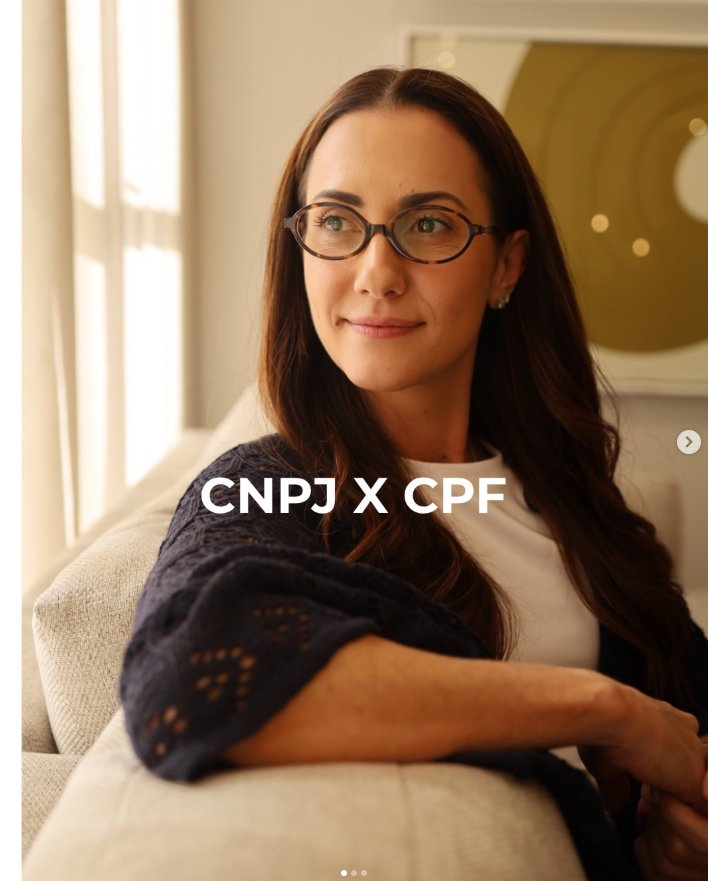
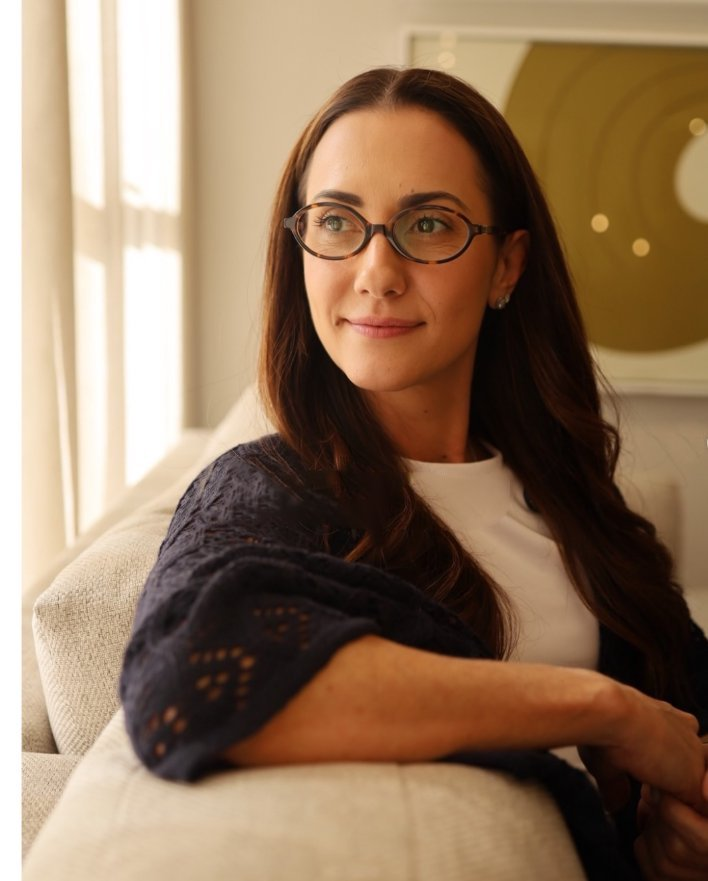
fix(previa): trocar foto do casal por varanda gourmet e atualizar foto de perfil sem texto

Changed region(s): [[0.2486, 0.521, 0.7147, 0.6129], [0.9322, 0.4904, 0.9944, 0.521], [0.4661, 0.9807, 0.5282, 1.0]]

diff --git a/previas/juliana-donzelli/index.html b/previas/juliana-donzelli/index.html
@@ -1055,7 +1055,7 @@ Usage: add custom attribute ellipses="1", "2", "3", or "4" */
 </div><div class="arrow y-100 w-embed"><svg width="100%" height="100%" viewBox="0 0 17 11" fill="none" xmlns="http://www.w3.org/2000/svg">
 <path fill-rule="evenodd" clip-rule="evenodd" d="M11.5447 0L10.7619 0.766191L14.9117 4.95H0V6.05H14.9117L10.7733 10.2223L11.5447 11C13.5419 8.98645 15.0885 7.4272 17 5.5L11.5447 0Z" fill="currentColor"/>
 </svg>
-</div></div></a></div></div></div><div id="w-node-_33a825c3-81c8-3b10-0d5d-609fba4ec7d0-3ac774a5" class="descritiption-logo-large" style="display:flex; justify-content:center; align-items:center; width:100%; padding:2.5rem 0;"><span style="font-family:'Cormorant Garamond', Georgia, serif; font-size:clamp(40px, 9.5vw, 135px); font-weight:700; letter-spacing:0.12em; text-transform:uppercase; color:#ffffff; line-height:1; text-align:center;">JULIANA DONZELLI</span></div></div></div></div><div data-wf--spacer--variant="xsmall" class="section_spacer w-variant-e0dff5ce-53d0-c405-e99c-6d1b9afe16a3"></div></div></section><section data-navbar-dark="true" class="section-beidge is-relative"><div class="featured-heading" style="top:130px !important; inset:130px 0% auto !important;"><div class="container"><div class="featured-label-wrap"><div class="featured-label"><h2 class="text-size-regular" id="projects"><span id="featuredHeading">Obras Selecionadas</span></h2></div></div></div></div><div class="featured-wrapper"><div data-wf--spacer--variant="bse" class="section_spacer"></div><div class="featured-spacer-tab"><div data-wf--spacer--variant="bse" class="section_spacer"></div></div><div class="padding-global higher-z"><div class="container"><div class="featured-wrap"><div class="featured-collection-wrapper w-dyn-list"><div role="list" class="featured-list w-dyn-items"><div role="listitem" class="featured-items w-dyn-item"><div class="featured-image-wrap"><div class="featured-image"><img src="assets/4009372228869753540_2244675868_1.jpg" loading="lazy" alt="" class="image-cover"/></div></div><div class="featured-grid"><div class="site-grid"><div class="featured-text"><div featured-numbered="" class="text-size-regular">01</div></div><div id="w-node-_1edc6db0-03d4-9ab7-a2d5-7a6b25c4bbf0-3ac774a5" class="featured-text"><div class="text-size-regular"><span id="proj1Title">Residência Alphaville I</span></div></div><div id="w-node-a6d03eed-a6cc-8a16-7fe4-6abfefa27164-3ac774a5" class="featured-text"><div class="text-size-regular opac-40 w-dyn-bind-empty"></div><div class="text-size-regular"><span id="proj1Desc">Alphaville I, SJC · 580 m² · Construção Autoral</span></div></div></div><div class="featured-divider"></div><div class="featured-divider-active"></div><a aria-label="Saiba Mais sobre este projeto" href="./residencia-alphaville.html" class="featured-link w-inline-block"></a></div></div><div role="listitem" class="featured-items w-dyn-item"><div class="featured-image-wrap"><div class="featured-image"><img src="assets/4009973513394161792_2244675868_1.jpg" loading="lazy" alt="" class="image-cover"/></div></div><div class="featured-grid"><div class="site-grid"><div class="featured-text"><div featured-numbered="" class="text-size-regular">01</div></div><div id="w-node-_1edc6db0-03d4-9ab7-a2d5-7a6b25c4bbf0-3ac774a5" class="featured-text"><div class="text-size-regular"><span id="proj2Title">Living Integrado Pé-Direito Duplo</span></div></div><div id="w-node-a6d03eed-a6cc-8a16-7fe4-6abfefa27164-3ac774a5" class="featured-text"><div class="text-size-regular opac-40 w-dyn-bind-empty"></div><div class="text-size-regular"><span id="proj2Desc">Colinas, SJC · Iluminação Cênica 2700K</span></div></div></div><div class="featured-divider"></div><div class="featured-divider-active"></div><a aria-label="Saiba Mais sobre este projeto" href="https://wa.me/5512991931919?text=Ol%C3%A1%2C+D%C3%A9bora%21+Gostaria+de+conhecer+mais+detalhes+sobre+os+projetos+residenciais." target="_blank" class="featured-link w-inline-block"></a></div></div><div role="listitem" class="featured-items w-dyn-item"><div class="featured-image-wrap"><div class="featured-image"><img src="assets/4008136506011091686_2244675868_2.jpg" loading="lazy" alt="" class="image-cover"/></div></div><div class="featured-grid"><div class="site-grid"><div class="featured-text"><div featured-numbered="" class="text-size-regular">01</div></div><div id="w-node-_1edc6db0-03d4-9ab7-a2d5-7a6b25c4bbf0-3ac774a5" class="featured-text"><div class="text-size-regular"><span id="proj3Title">Espaço Gourmet &amp; Lazer Integrado</span></div></div><div id="w-node-a6d03eed-a6cc-8a16-7fe4-6abfefa27164-3ac774a5" class="featured-text"><div class="text-size-regular opac-40 w-dyn-bind-empty"></div><div class="text-size-regular"><span id="proj3Desc">Urbanova, SJC · Mármore Michelangelo &amp; Nogueira</span></div></div></div><div class="featured-divider"></div><div class="featured-divider-active"></div><a aria-label="Saiba Mais sobre este projeto" href="https://wa.me/5512991931919?text=Ol%C3%A1%2C+D%C3%A9bora%21+Gostaria+de+conhecer+mais+detalhes+sobre+os+projetos+residenciais." target="_blank" class="featured-link w-inline-block"></a></div></div><div role="listitem" class="featured-items w-dyn-item"><div class="featured-image-wrap"><div class="featured-image"><img src="assets/4008136506011091686_2244675868_6.jpg" loading="lazy" alt="" class="image-cover"/></div></div><div class="featured-grid"><div class="site-grid"><div class="featured-text"><div featured-numbered="" class="text-size-regular">01</div></div><div id="w-node-_1edc6db0-03d4-9ab7-a2d5-7a6b25c4bbf0-3ac774a5" class="featured-text"><div class="text-size-regular"><span id="proj4Title">Suíte Master Sensorial</span></div></div><div id="w-node-a6d03eed-a6cc-8a16-7fe4-6abfefa27164-3ac774a5" class="featured-text"><div class="text-size-regular opac-40 w-dyn-bind-empty"></div><div class="text-size-regular"><span id="proj4Desc">Jardim Golfe, SJC · Marcenaria Autoral Sob Medida</span></div></div></div><div class="featured-divider"></div><div class="featured-divider-active"></div><a aria-label="Saiba Mais sobre este projeto" href="https://wa.me/5512991931919?text=Ol%C3%A1%2C+D%C3%A9bora%21+Gostaria+de+conhecer+mais+detalhes+sobre+os+projetos+residenciais." target="_blank" class="featured-link w-inline-block"></a></div></div><div role="listitem" class="featured-items w-dyn-item"><div class="featured-image-wrap"><div class="featured-image"><img src="assets/3948634773405647722_2244675868_7.jpg" loading="lazy" alt="" class="image-cover"/></div></div><div class="featured-grid"><div class="site-grid"><div class="featured-text"><div featured-numbered="" class="text-size-regular">01</div></div><div id="w-node-_1edc6db0-03d4-9ab7-a2d5-7a6b25c4bbf0-3ac774a5" class="featured-text"><div class="text-size-regular"><span id="proj5Title">Varanda Gourmet &amp; Paisagismo</span></div></div><div id="w-node-a6d03eed-a6cc-8a16-7fe4-6abfefa27164-3ac774a5" class="featured-text"><div class="text-size-regular opac-40 w-dyn-bind-empty"></div><div class="text-size-regular"><span id="proj5Desc">Alphaville II, SJC · Integração Total In/Out</span></div></div></div><div class="featured-divider"></div><div class="featured-divider-active"></div><a aria-label="Saiba Mais sobre este projeto" href="https://wa.me/5512991931919?text=Ol%C3%A1%2C+D%C3%A9bora%21+Gostaria+de+conhecer+mais+detalhes+sobre+os+projetos+residenciais." target="_blank" class="featured-link w-inline-block"></a></div></div><div role="listitem" class="featured-items w-dyn-item"><div class="featured-image-wrap"><div class="featured-image"><img src="assets/4009973513394161792_2244675868_6.jpg" loading="lazy" alt="" class="image-cover"/></div></div><div class="featured-grid"><div class="site-grid"><div class="featured-text"><div featured-numbered="" class="text-size-regular">01</div></div><div id="w-node-_1edc6db0-03d4-9ab7-a2d5-7a6b25c4bbf0-3ac774a5" class="featured-text"><div class="text-size-regular"><span id="proj6Title">Fachada Noturna &amp; Luminotécnica</span></div></div><div id="w-node-a6d03eed-a6cc-8a16-7fe4-6abfefa27164-3ac774a5" class="featured-text"><div class="text-size-regular opac-40 w-dyn-bind-empty"></div><div class="text-size-regular"><span id="proj6Desc">Residencial Jaguary, SJC · Arquitetura Contemporânea</span></div></div></div><div class="featured-divider"></div><div class="featured-divider-active"></div><a aria-label="Saiba Mais sobre este projeto" href="https://wa.me/5512991931919?text=Ol%C3%A1%2C+D%C3%A9bora%21+Gostaria+de+conhecer+mais+detalhes+sobre+os+projetos+residenciais." target="_blank" class="featured-link w-inline-block"></a></div></div></div></div></div></div></div><div class="featured-spacer-tab"><div data-wf--spacer--variant="bse" class="section_spacer"></div></div><div data-wf--spacer--variant="big" class="section_spacer w-variant-fd5b8090-3e41-fa78-ec10-87d9fbe73384"></div></div></section><section data-navbar-dark="true" id="process" class="section_approach"><div class="approach-wrapper"><div class="padding-global higher-z"><div class="container"><div class="site-grid">
+</div></div></a></div></div></div><div id="w-node-_33a825c3-81c8-3b10-0d5d-609fba4ec7d0-3ac774a5" class="descritiption-logo-large" style="display:flex; justify-content:center; align-items:center; width:100%; padding:2.5rem 0;"><span style="font-family:'Cormorant Garamond', Georgia, serif; font-size:clamp(40px, 9.5vw, 135px); font-weight:700; letter-spacing:0.12em; text-transform:uppercase; color:#ffffff; line-height:1; text-align:center;">JULIANA DONZELLI</span></div></div></div></div><div data-wf--spacer--variant="xsmall" class="section_spacer w-variant-e0dff5ce-53d0-c405-e99c-6d1b9afe16a3"></div></div></section><section data-navbar-dark="true" class="section-beidge is-relative"><div class="featured-heading" style="top:130px !important; inset:130px 0% auto !important;"><div class="container"><div class="featured-label-wrap"><div class="featured-label"><h2 class="text-size-regular" id="projects"><span id="featuredHeading">Obras Selecionadas</span></h2></div></div></div></div><div class="featured-wrapper"><div data-wf--spacer--variant="bse" class="section_spacer"></div><div class="featured-spacer-tab"><div data-wf--spacer--variant="bse" class="section_spacer"></div></div><div class="padding-global higher-z"><div class="container"><div class="featured-wrap"><div class="featured-collection-wrapper w-dyn-list"><div role="list" class="featured-list w-dyn-items"><div role="listitem" class="featured-items w-dyn-item"><div class="featured-image-wrap"><div class="featured-image"><img src="assets/4009372228869753540_2244675868_1.jpg" loading="lazy" alt="" class="image-cover"/></div></div><div class="featured-grid"><div class="site-grid"><div class="featured-text"><div featured-numbered="" class="text-size-regular">01</div></div><div id="w-node-_1edc6db0-03d4-9ab7-a2d5-7a6b25c4bbf0-3ac774a5" class="featured-text"><div class="text-size-regular"><span id="proj1Title">Residência Alphaville I</span></div></div><div id="w-node-a6d03eed-a6cc-8a16-7fe4-6abfefa27164-3ac774a5" class="featured-text"><div class="text-size-regular opac-40 w-dyn-bind-empty"></div><div class="text-size-regular"><span id="proj1Desc">Alphaville I, SJC · 580 m² · Construção Autoral</span></div></div></div><div class="featured-divider"></div><div class="featured-divider-active"></div><a aria-label="Saiba Mais sobre este projeto" href="./residencia-alphaville.html" class="featured-link w-inline-block"></a></div></div><div role="listitem" class="featured-items w-dyn-item"><div class="featured-image-wrap"><div class="featured-image"><img src="assets/4009973513394161792_2244675868_1.jpg" loading="lazy" alt="" class="image-cover"/></div></div><div class="featured-grid"><div class="site-grid"><div class="featured-text"><div featured-numbered="" class="text-size-regular">01</div></div><div id="w-node-_1edc6db0-03d4-9ab7-a2d5-7a6b25c4bbf0-3ac774a5" class="featured-text"><div class="text-size-regular"><span id="proj2Title">Living Integrado Pé-Direito Duplo</span></div></div><div id="w-node-a6d03eed-a6cc-8a16-7fe4-6abfefa27164-3ac774a5" class="featured-text"><div class="text-size-regular opac-40 w-dyn-bind-empty"></div><div class="text-size-regular"><span id="proj2Desc">Colinas, SJC · Iluminação Cênica 2700K</span></div></div></div><div class="featured-divider"></div><div class="featured-divider-active"></div><a aria-label="Saiba Mais sobre este projeto" href="https://wa.me/5512991931919?text=Ol%C3%A1%2C+Juliana%21+Gostaria+de+conhecer+mais+detalhes+sobre+os+projetos+residenciais." target="_blank" class="featured-link w-inline-block"></a></div></div><div role="listitem" class="featured-items w-dyn-item"><div class="featured-image-wrap"><div class="featured-image"><img src="assets/4008136506011091686_2244675868_2.jpg" loading="lazy" alt="" class="image-cover"/></div></div><div class="featured-grid"><div class="site-grid"><div class="featured-text"><div featured-numbered="" class="text-size-regular">01</div></div><div id="w-node-_1edc6db0-03d4-9ab7-a2d5-7a6b25c4bbf0-3ac774a5" class="featured-text"><div class="text-size-regular"><span id="proj3Title">Espaço Gourmet &amp; Lazer Integrado</span></div></div><div id="w-node-a6d03eed-a6cc-8a16-7fe4-6abfefa27164-3ac774a5" class="featured-text"><div class="text-size-regular opac-40 w-dyn-bind-empty"></div><div class="text-size-regular"><span id="proj3Desc">Urbanova, SJC · Mármore Michelangelo &amp; Nogueira</span></div></div></div><div class="featured-divider"></div><div class="featured-divider-active"></div><a aria-label="Saiba Mais sobre este projeto" href="https://wa.me/5512991931919?text=Ol%C3%A1%2C+Juliana%21+Gostaria+de+conhecer+mais+detalhes+sobre+os+projetos+residenciais." target="_blank" class="featured-link w-inline-block"></a></div></div><div role="listitem" class="featured-items w-dyn-item"><div class="featured-image-wrap"><div class="featured-image"><img src="assets/4008136506011091686_2244675868_6.jpg" loading="lazy" alt="" class="image-cover"/></div></div><div class="featured-grid"><div class="site-grid"><div class="featured-text"><div featured-numbered="" class="text-size-regular">01</div></div><div id="w-node-_1edc6db0-03d4-9ab7-a2d5-7a6b25c4bbf0-3ac774a5" class="featured-text"><div class="text-size-regular"><span id="proj4Title">Suíte Master Sensorial</span></div></div><div id="w-node-a6d03eed-a6cc-8a16-7fe4-6abfefa27164-3ac774a5" class="featured-text"><div class="text-size-regular opac-40 w-dyn-bind-empty"></div><div class="text-size-regular"><span id="proj4Desc">Jardim Golfe, SJC · Marcenaria Autoral Sob Medida</span></div></div></div><div class="featured-divider"></div><div class="featured-divider-active"></div><a aria-label="Saiba Mais sobre este projeto" href="https://wa.me/5512991931919?text=Ol%C3%A1%2C+Juliana%21+Gostaria+de+conhecer+mais+detalhes+sobre+os+projetos+residenciais." target="_blank" class="featured-link w-inline-block"></a></div></div><div role="listitem" class="featured-items w-dyn-item"><div class="featured-image-wrap"><div class="featured-image"><img src="assets/juliana-varanda-gourmet.webp" loading="lazy" alt="" class="image-cover"/></div></div><div class="featured-grid"><div class="site-grid"><div class="featured-text"><div featured-numbered="" class="text-size-regular">01</div></div><div id="w-node-_1edc6db0-03d4-9ab7-a2d5-7a6b25c4bbf0-3ac774a5" class="featured-text"><div class="text-size-regular"><span id="proj5Title">Varanda Gourmet &amp; Paisagismo</span></div></div><div id="w-node-a6d03eed-a6cc-8a16-7fe4-6abfefa27164-3ac774a5" class="featured-text"><div class="text-size-regular opac-40 w-dyn-bind-empty"></div><div class="text-size-regular"><span id="proj5Desc">Alphaville II, SJC · Integração Total In/Out</span></div></div></div><div class="featured-divider"></div><div class="featured-divider-active"></div><a aria-label="Saiba Mais sobre este projeto" href="https://wa.me/5512991931919?text=Ol%C3%A1%2C+Juliana%21+Gostaria+de+conhecer+mais+detalhes+sobre+os+projetos+residenciais." target="_blank" class="featured-link w-inline-block"></a></div></div><div role="listitem" class="featured-items w-dyn-item"><div class="featured-image-wrap"><div class="featured-image"><img src="assets/4009973513394161792_2244675868_6.jpg" loading="lazy" alt="" class="image-cover"/></div></div><div class="featured-grid"><div class="site-grid"><div class="featured-text"><div featured-numbered="" class="text-size-regular">01</div></div><div id="w-node-_1edc6db0-03d4-9ab7-a2d5-7a6b25c4bbf0-3ac774a5" class="featured-text"><div class="text-size-regular"><span id="proj6Title">Fachada Noturna &amp; Luminotécnica</span></div></div><div id="w-node-a6d03eed-a6cc-8a16-7fe4-6abfefa27164-3ac774a5" class="featured-text"><div class="text-size-regular opac-40 w-dyn-bind-empty"></div><div class="text-size-regular"><span id="proj6Desc">Residencial Jaguary, SJC · Arquitetura Contemporânea</span></div></div></div><div class="featured-divider"></div><div class="featured-divider-active"></div><a aria-label="Saiba Mais sobre este projeto" href="https://wa.me/5512991931919?text=Ol%C3%A1%2C+Juliana%21+Gostaria+de+conhecer+mais+detalhes+sobre+os+projetos+residenciais." target="_blank" class="featured-link w-inline-block"></a></div></div></div></div></div></div></div><div class="featured-spacer-tab"><div data-wf--spacer--variant="bse" class="section_spacer"></div></div><div data-wf--spacer--variant="big" class="section_spacer w-variant-fd5b8090-3e41-fa78-ec10-87d9fbe73384"></div></div></section><section data-navbar-dark="true" id="process" class="section_approach"><div class="approach-wrapper"><div class="padding-global higher-z"><div class="container"><div class="site-grid">
 
   <!-- 1. Heading Principal em Português (Posição estática acima da imagem, NUNCA sobreposta) -->
   <div id="w-node-_70bf6eb3-1c59-f86a-6d5a-bc1fe00f310c-3ac774a5" class="approach-heading">
@@ -1180,7 +1180,7 @@ Usage: add custom attribute ellipses="1", "2", "3", or "4" */
   <div id="w-node-_75db99c6-0716-cf52-8fca-4dc17fb8006a-3ac774a5" class="words-project">
     <div class="words-block-limit is-full-height">
       <div class="words-thumbnail" style="border-radius:12px; overflow:hidden;">
-        <img src="assets/3948634773405647722_2244675868_7.jpg" loading="lazy" alt="Varanda Gourmet Residência Alphaville" class="image-cover" style="width:100%; height:100%; object-fit:cover;"/>
+        <img src="assets/juliana-varanda-gourmet.webp" loading="lazy" alt="Varanda Gourmet Residência Alphaville" class="image-cover" style="width:100%; height:100%; object-fit:cover;"/>
       </div>
     </div>
   </div>
@@ -1197,7 +1197,7 @@ Usage: add custom attribute ellipses="1", "2", "3", or "4" */
     </div>
   </div>
   <div id="w-node-_6da7057f-6c6d-9b5e-7a9b-630f3030e91a-3ac774a5" class="words-block-limit is-small">
-    <a href="https://wa.me/5512991931919?text=Ol%C3%A1%2C+D%C3%A9bora%21+Gostaria+de+apresentar+meu+projeto+residencial." target="_blank" rel="noopener noreferrer" data-project-transition="" data="hover" data-wf--button--variant="brown" class="button-link w-variant-008db1c5-1136-09cf-ea78-882642becaee w-inline-block">
+    <a href="https://wa.me/5512991931919?text=Ol%C3%A1%2C+Juliana%21+Gostaria+de+apresentar+meu+projeto+residencial." target="_blank" rel="noopener noreferrer" data-project-transition="" data="hover" data-wf--button--variant="brown" class="button-link w-variant-008db1c5-1136-09cf-ea78-882642becaee w-inline-block">
       <div class="button-text-wrap">
         <div class="button-text">Consultar Projeto</div>
         <div class="button-text y-100">Consultar Projeto</div>
@@ -1207,7 +1207,7 @@ Usage: add custom attribute ellipses="1", "2", "3", or "4" */
     </a>
   </div>
   <div id="w-node-_45682f81-68f1-3bd2-1941-d5357b25f6d0-3ac774a5" class="words-big-img" style="border-radius:12px; overflow:hidden; box-shadow:0 10px 30px rgba(0,0,0,0.08);">
-    <img src="assets/3948634773405647722_2244675868_7.jpg" loading="lazy" alt="Varanda Gourmet Residência Alphaville" class="image-cover" style="width:100%; height:100%; object-fit:cover;"/>
+    <img src="assets/juliana-varanda-gourmet.webp" loading="lazy" alt="Varanda Gourmet Residência Alphaville" class="image-cover" style="width:100%; height:100%; object-fit:cover;"/>
   </div>
 </div></div>
 
@@ -1233,7 +1233,7 @@ Usage: add custom attribute ellipses="1", "2", "3", or "4" */
     </div>
   </div>
   <div id="w-node-_6da7057f-6c6d-9b5e-7a9b-630f3030e91a-3ac774a5" class="words-block-limit is-small">
-    <a href="https://wa.me/5512991931919?text=Ol%C3%A1%2C+D%C3%A9bora%21+Gostaria+de+falar+sobre+parceria+ou+projeto." target="_blank" rel="noopener noreferrer" data-project-transition="" data="hover" data-wf--button--variant="brown" class="button-link w-variant-008db1c5-1136-09cf-ea78-882642becaee w-inline-block">
+    <a href="https://wa.me/5512991931919?text=Ol%C3%A1%2C+Juliana%21+Gostaria+de+falar+sobre+parceria+ou+projeto." target="_blank" rel="noopener noreferrer" data-project-transition="" data="hover" data-wf--button--variant="brown" class="button-link w-variant-008db1c5-1136-09cf-ea78-882642becaee w-inline-block">
       <div class="button-text-wrap">
         <div class="button-text">Falar com Juliana</div>
         <div class="button-text y-100">Falar com Juliana</div>
@@ -1264,7 +1264,7 @@ Usage: add custom attribute ellipses="1", "2", "3", or "4" */
   <div words-next="" class="words-next"><div class="icon-embeds is-words w-embed"><svg width="100%" height="100%" viewBox="0 0 17 11" fill="none" xmlns="http://www.w3.org/2000/svg"><path fill-rule="evenodd" clip-rule="evenodd" d="M11.5447 0L10.7619 0.766191L14.9117 4.95H0V6.05H14.9117L10.7733 10.2223L11.5447 11C13.5419 8.98645 15.0885 7.4272 17 5.5L11.5447 0Z" fill="currentColor"/></svg></div></div>
 </div>
 
-</div></div></div><div data-wf--spacer--variant="bse" class="section_spacer"></div></div></section><footer id="w-node-cd50c325-c607-fb29-48f4-1b9a966a37a0-966a37a0" class="section_footer"><div class="footer-line"></div><div class="footer-wrapper"><div data-wf--spacer--variant="medium" class="section_spacer w-variant-a40e01b6-5e03-6695-86cf-4f169739336e"></div><div class="padding-global higher-z"><div class="container"><div class="footer-container"><div class="site-grid is-footer"><div data-link-wrap="" id="w-node-a1d2eda9-629d-e00b-cd7c-da86bf7750f9-966a37a0" class="footer-blocks right-align-mob"><a data-link="" aria-label="goes to Instagram" href="https://www.instagram.com/judonzelli.arquiteta/" target="_blank" class="footer-links w-inline-block"><p class="text-size-regular-rem">Instagram</p></a><a data-link="" aria-label="goes to Facebook" href="https://www.instagram.com/judonzelli.arquiteta/" target="_blank" class="footer-links w-inline-block"><p class="text-size-regular-rem">Facebook</p></a><a data-link="" aria-label="goes to Linkedin" href="https://www.instagram.com/judonzelli.arquiteta/" target="_blank" class="footer-links w-inline-block"><p class="text-size-regular-rem">Linkedin</p></a><a data-link="" aria-label="goes to WhatsApp Oficial" href="https://wa.me/5512991931919" target="_blank" class="footer-links w-inline-block"><p class="text-size-regular-rem" style="color:#1f1a17;">WhatsApp Oficial</p></a></div><div data-link-wrap="" id="w-node-a1d2eda9-629d-e00b-cd7c-da86bf775106-966a37a0" class="footer-blocks"><a data-link="" aria-label="Telefone e WhatsApp Oficial" href="https://wa.me/5512991931919" target="_blank" class="footer-links w-inline-block"><p class="text-size-regular-rem" style="color:#1f1a17;">(11) 99308-3890 (WhatsApp)</p></a><a data-link="" aria-label="E-mail profissional Juliana Donzelli" href="mailto:contato@julianadonzelli.com.br" class="footer-links w-inline-block"><p class="text-size-regular-rem" style="color:#1f1a17;">contato@julianadonzelli.com.br</p></a></div><div id="w-node-a1d2eda9-629d-e00b-cd7c-da86bf77510d-966a37a0" class="footer-cta-block"><h2 class="heading-style-h3-rem is-small" id="contato" style="color:#1f1a17;"><span id="footerH2">Inicie a conversa sobre o seu projeto</span></h2><a href="https://wa.me/5512991931919?text=Ol%C3%A1%2C+D%C3%A9bora%21+Gostaria+de+apresentar+meu+projeto+residencial." target="_blank" data-project-transition="" data="hover" data-wf--button--variant="brown" class="button-link w-variant-008db1c5-1136-09cf-ea78-882642becaee w-inline-block"><div class="button-text-wrap"><div sym-bind="{&quot;children&quot;:{&quot;type&quot;:&quot;Select&quot;,&quot;val&quot;:{&quot;from&quot;:{&quot;type&quot;:&quot;Variable&quot;,&quot;val&quot;:&quot;data&quot;},&quot;prop&quot;:&quot;38383ae9-1aad-cbc6-b76a-f68b8fc59bbf&quot;}}}" class="button-text">Enquire about your project here</div><div id="footerBtnHover" class="button-text y-100">Consultar Projeto via WhatsApp</div></div><div class="animate-hover-line-container"><div class="animate-hover-line w-variant-008db1c5-1136-09cf-ea78-882642becaee _1"></div><div class="animate-hover-line w-variant-008db1c5-1136-09cf-ea78-882642becaee _2"></div></div><div class="arrow-container"><div class="arrow w-embed"><svg width="100%" height="100%" viewBox="0 0 17 11" fill="none" xmlns="http://www.w3.org/2000/svg">
+</div></div></div><div data-wf--spacer--variant="bse" class="section_spacer"></div></div></section><footer id="w-node-cd50c325-c607-fb29-48f4-1b9a966a37a0-966a37a0" class="section_footer"><div class="footer-line"></div><div class="footer-wrapper"><div data-wf--spacer--variant="medium" class="section_spacer w-variant-a40e01b6-5e03-6695-86cf-4f169739336e"></div><div class="padding-global higher-z"><div class="container"><div class="footer-container"><div class="site-grid is-footer"><div data-link-wrap="" id="w-node-a1d2eda9-629d-e00b-cd7c-da86bf7750f9-966a37a0" class="footer-blocks right-align-mob"><a data-link="" aria-label="goes to Instagram" href="https://www.instagram.com/judonzelli.arquiteta/" target="_blank" class="footer-links w-inline-block"><p class="text-size-regular-rem">Instagram</p></a><a data-link="" aria-label="goes to Facebook" href="https://www.instagram.com/judonzelli.arquiteta/" target="_blank" class="footer-links w-inline-block"><p class="text-size-regular-rem">Facebook</p></a><a data-link="" aria-label="goes to Linkedin" href="https://www.instagram.com/judonzelli.arquiteta/" target="_blank" class="footer-links w-inline-block"><p class="text-size-regular-rem">Linkedin</p></a><a data-link="" aria-label="goes to WhatsApp Oficial" href="https://wa.me/5512991931919" target="_blank" class="footer-links w-inline-block"><p class="text-size-regular-rem" style="color:#1f1a17;">WhatsApp Oficial</p></a></div><div data-link-wrap="" id="w-node-a1d2eda9-629d-e00b-cd7c-da86bf775106-966a37a0" class="footer-blocks"><a data-link="" aria-label="Telefone e WhatsApp Oficial" href="https://wa.me/5512991931919" target="_blank" class="footer-links w-inline-block"><p class="text-size-regular-rem" style="color:#1f1a17;">(12) 99193-1919 (WhatsApp)</p></a><a data-link="" aria-label="E-mail profissional Juliana Donzelli" href="mailto:contato@julianadonzelli.com.br" class="footer-links w-inline-block"><p class="text-size-regular-rem" style="color:#1f1a17;">contato@julianadonzelli.com.br</p></a></div><div id="w-node-a1d2eda9-629d-e00b-cd7c-da86bf77510d-966a37a0" class="footer-cta-block"><h2 class="heading-style-h3-rem is-small" id="contato" style="color:#1f1a17;"><span id="footerH2">Inicie a conversa sobre o seu projeto</span></h2><a href="https://wa.me/5512991931919?text=Ol%C3%A1%2C+Juliana%21+Gostaria+de+apresentar+meu+projeto+residencial." target="_blank" data-project-transition="" data="hover" data-wf--button--variant="brown" class="button-link w-variant-008db1c5-1136-09cf-ea78-882642becaee w-inline-block"><div class="button-text-wrap"><div sym-bind="{&quot;children&quot;:{&quot;type&quot;:&quot;Select&quot;,&quot;val&quot;:{&quot;from&quot;:{&quot;type&quot;:&quot;Variable&quot;,&quot;val&quot;:&quot;data&quot;},&quot;prop&quot;:&quot;38383ae9-1aad-cbc6-b76a-f68b8fc59bbf&quot;}}}" class="button-text">Enquire about your project here</div><div id="footerBtnHover" class="button-text y-100">Consultar Projeto via WhatsApp</div></div><div class="animate-hover-line-container"><div class="animate-hover-line w-variant-008db1c5-1136-09cf-ea78-882642becaee _1"></div><div class="animate-hover-line w-variant-008db1c5-1136-09cf-ea78-882642becaee _2"></div></div><div class="arrow-container"><div class="arrow w-embed"><svg width="100%" height="100%" viewBox="0 0 17 11" fill="none" xmlns="http://www.w3.org/2000/svg">
 <path fill-rule="evenodd" clip-rule="evenodd" d="M11.5447 0L10.7619 0.766191L14.9117 4.95H0V6.05H14.9117L10.7733 10.2223L11.5447 11C13.5419 8.98645 15.0885 7.4272 17 5.5L11.5447 0Z" fill="currentColor"/>
 </svg>
 </div><div class="arrow y-100 w-embed"><svg width="100%" height="100%" viewBox="0 0 17 11" fill="none" xmlns="http://www.w3.org/2000/svg">
@@ -2796,7 +2796,7 @@ document.addEventListener('DOMContentLoaded', function() {
         </div>
         <div class="dt-field-group">
           <label class="dt-field-title" id="lblWhatsapp">Seu WhatsApp / Telefone com DDD:</label>
-          <input type="tel" id="clientWhatsapp" name="clientWhatsapp" class="dt-input" placeholder="Ex: (11) 99308-3890" required>
+          <input type="tel" id="clientWhatsapp" name="clientWhatsapp" class="dt-input" placeholder="Ex: (12) 99193-1919" required>
         </div>
         <div class="dt-field-group">
           <label class="dt-field-title" id="lblNotes">Observações ou Aspirações (Opcional):</label>

diff --git a/previas/juliana-donzelli/residencia-alphaville.html b/previas/juliana-donzelli/residencia-alphaville.html
@@ -802,7 +802,7 @@ Usage: add custom attribute ellipses="1", "2", "3", or "4" */
                 <span class="project-spec-val">2024</span>
               </div>
 
-              <a href="https://wa.me/5512991931919?text=Ol%C3%A1%2C+D%C3%A9bora%21+Gostei+muito+da+apresenta%C3%A7%C3%A3o+da+Resid%C3%AAncia+Alphaville+I+e+gostaria+de+conversar+sobre+um+projeto+nesse+padr%C3%A3o." target="_blank" rel="noopener noreferrer" class="btn-cta-project">
+              <a href="https://wa.me/5512991931919?text=Ol%C3%A1%2C+Juliana%21+Gostei+muito+da+apresenta%C3%A7%C3%A3o+da+Resid%C3%AAncia+Alphaville+I+e+gostaria+de+conversar+sobre+um+projeto+nesse+padr%C3%A3o." target="_blank" rel="noopener noreferrer" class="btn-cta-project">
                 <svg width="18" height="18" viewBox="0 0 24 24" fill="none" stroke="currentColor" stroke-width="2" stroke-linecap="round" stroke-linejoin="round"><path d="M21 11.5a8.38 8.38 0 0 1-.9 3.8 8.5 8.5 0 0 1-7.6 4.7 8.38 8.38 0 0 1-3.8-.9L3 21l1.9-5.7a8.38 8.38 0 0 1-.9-3.8 8.5 8.5 0 0 1 4.7-7.6 8.38 8.38 0 0 1 3.8-.9h.5a8.48 8.48 0 0 1 8 8v.5z"/></svg>
                 <span id="btnConsultProject">Consultar Projeto Semelhante</span>
               </a>
@@ -836,7 +836,7 @@ Usage: add custom attribute ellipses="1", "2", "3", or "4" */
           </div>
 
           <div class="project-gallery-card">
-            <img src="assets/3948634773405647722_2244675868_7.jpg" loading="lazy" alt="Varanda gourmet com paisagismo e luz quente 2700K"/>
+            <img src="assets/juliana-varanda-gourmet.webp" loading="lazy" alt="Varanda gourmet com paisagismo e luz quente 2700K"/>
           </div>
 
           <div class="project-gallery-card">
@@ -865,12 +865,12 @@ Usage: add custom attribute ellipses="1", "2", "3", or "4" */
               <a data-link="" aria-label="WhatsApp Oficial" href="https://wa.me/5512991931919" target="_blank" class="footer-links w-inline-block"><p class="text-size-regular-rem" style="color:#1f1a17;">WhatsApp Oficial</p></a>
             </div>
             <div data-link-wrap="" id="w-node-a1d2eda9-629d-e00b-cd7c-da86bf775106-966a37a0" class="footer-blocks">
-              <a data-link="" aria-label="Telefone e WhatsApp Oficial" href="https://wa.me/5512991931919" target="_blank" class="footer-links w-inline-block"><p class="text-size-regular-rem" style="color:#1f1a17;">(11) 99308-3890 (WhatsApp)</p></a>
+              <a data-link="" aria-label="Telefone e WhatsApp Oficial" href="https://wa.me/5512991931919" target="_blank" class="footer-links w-inline-block"><p class="text-size-regular-rem" style="color:#1f1a17;">(12) 99193-1919 (WhatsApp)</p></a>
               <a data-link="" aria-label="E-mail profissional Juliana Donzelli" href="mailto:contato@julianadonzelli.com.br" class="footer-links w-inline-block"><p class="text-size-regular-rem" style="color:#1f1a17;">contato@julianadonzelli.com.br</p></a>
             </div>
             <div id="w-node-a1d2eda9-629d-e00b-cd7c-da86bf77510d-966a37a0" class="footer-cta-block">
               <h2 class="heading-style-h3-rem is-small" id="contato" style="color:#1f1a17;"><span id="footerH2Proj">Inicie a conversa sobre o seu projeto</span></h2>
-              <a href="https://wa.me/5512991931919?text=Ol%C3%A1%2C+D%C3%A9bora%21+Gostaria+de+apresentar+meu+projeto+residencial+para+an%C3%A1lise." target="_blank" data-project-transition="" data="hover" data-wf--button--variant="brown" class="button-link w-variant-008db1c5-1136-09cf-ea78-882642becaee w-inline-block" style="background:#1f1a17 !important;">
+              <a href="https://wa.me/5512991931919?text=Ol%C3%A1%2C+Juliana%21+Gostaria+de+apresentar+meu+projeto+residencial+para+an%C3%A1lise." target="_blank" data-project-transition="" data="hover" data-wf--button--variant="brown" class="button-link w-variant-008db1c5-1136-09cf-ea78-882642becaee w-inline-block" style="background:#1f1a17 !important;">
                 <div class="button-text-wrap">
                   <div class="button-text" style="color:#ffffff !important;"><span id="footerBtnProj">Consultar Projeto via WhatsApp</span></div>
                   <div class="button-text y-100" style="color:#ffffff !important;"><span id="footerBtnHoverProj">Consultar Projeto via WhatsApp</span></div>
@@ -1856,7 +1856,7 @@ document.addEventListener('DOMContentLoaded', function() {
         </div>
         <div class="dt-field-group">
           <label class="dt-field-title" id="lblWhatsapp">Seu WhatsApp / Telefone com DDD:</label>
-          <input type="tel" id="clientWhatsapp" name="clientWhatsapp" class="dt-input" placeholder="Ex: (11) 99308-3890" required>
+          <input type="tel" id="clientWhatsapp" name="clientWhatsapp" class="dt-input" placeholder="Ex: (12) 99193-1919" required>
         </div>
         <div class="dt-field-group">
           <label class="dt-field-title" id="lblNotes">Observações ou Aspirações (Opcional):</label>
